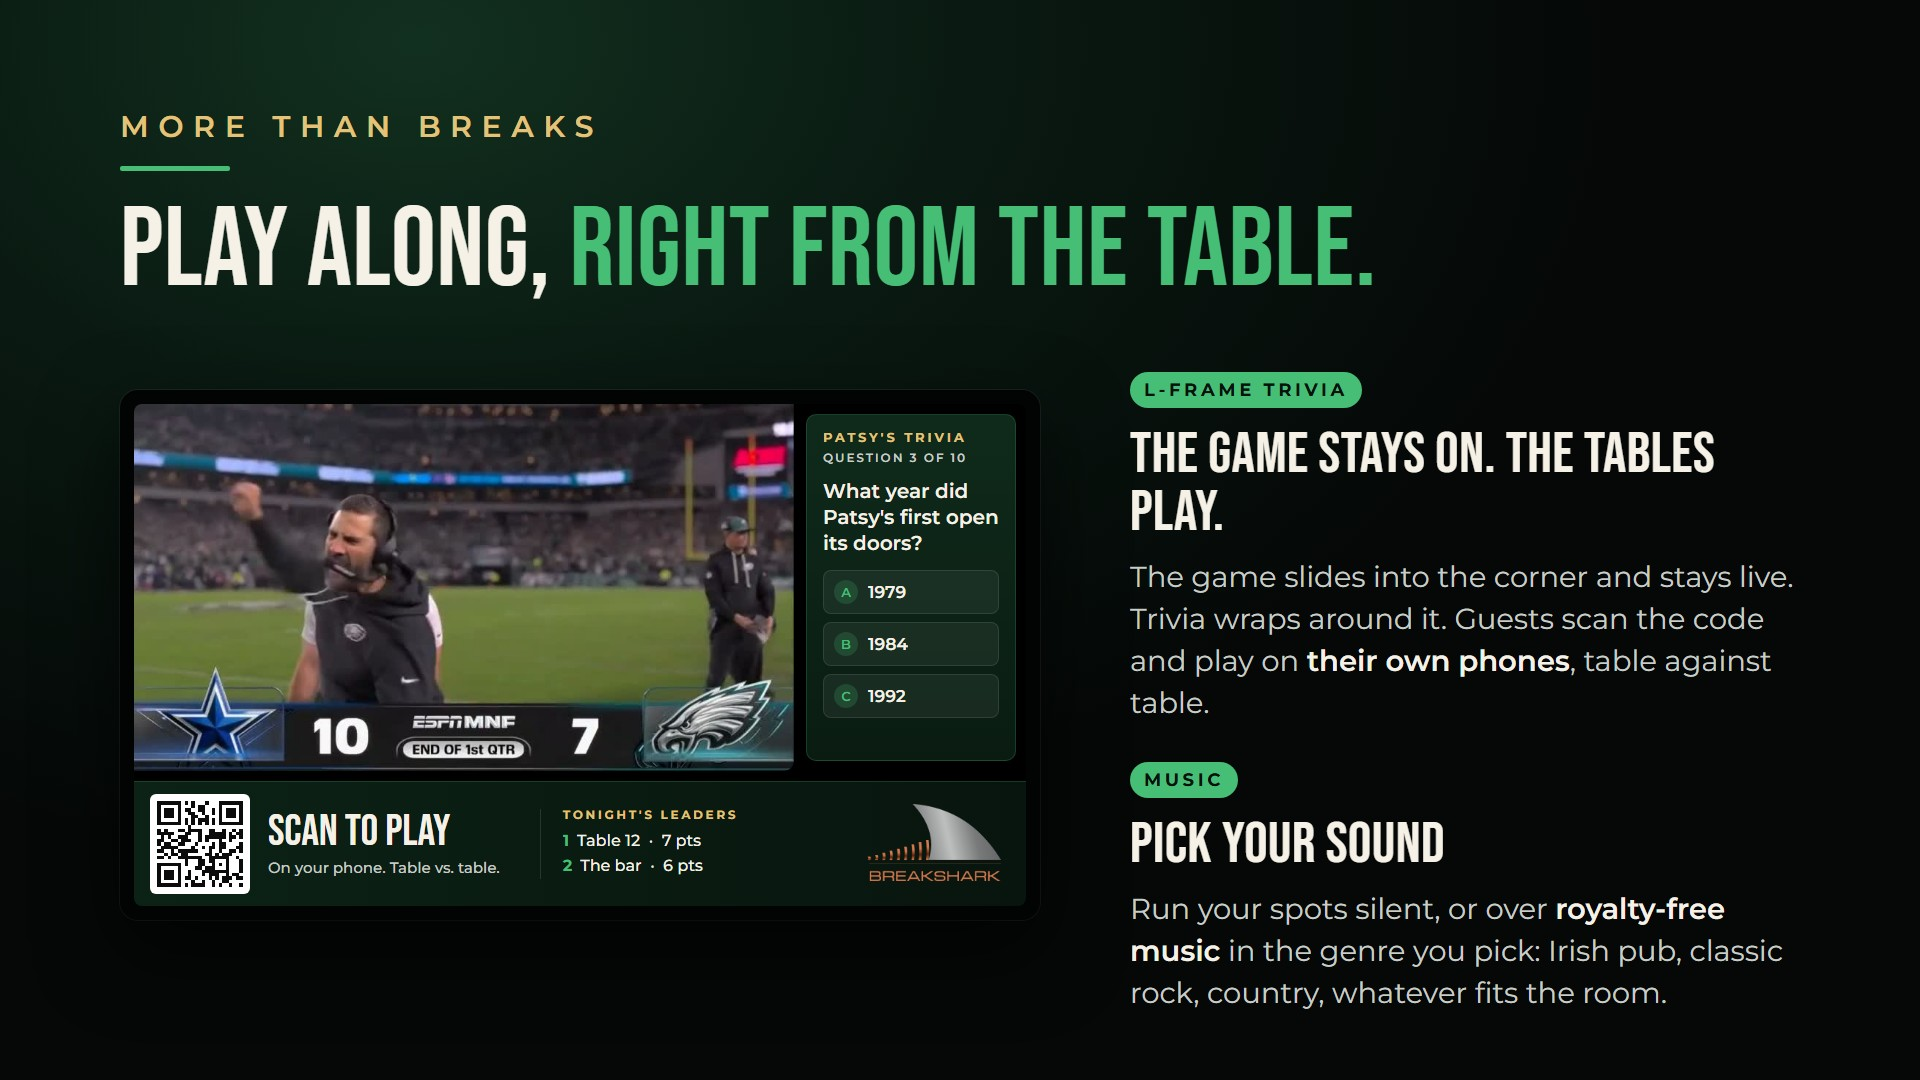
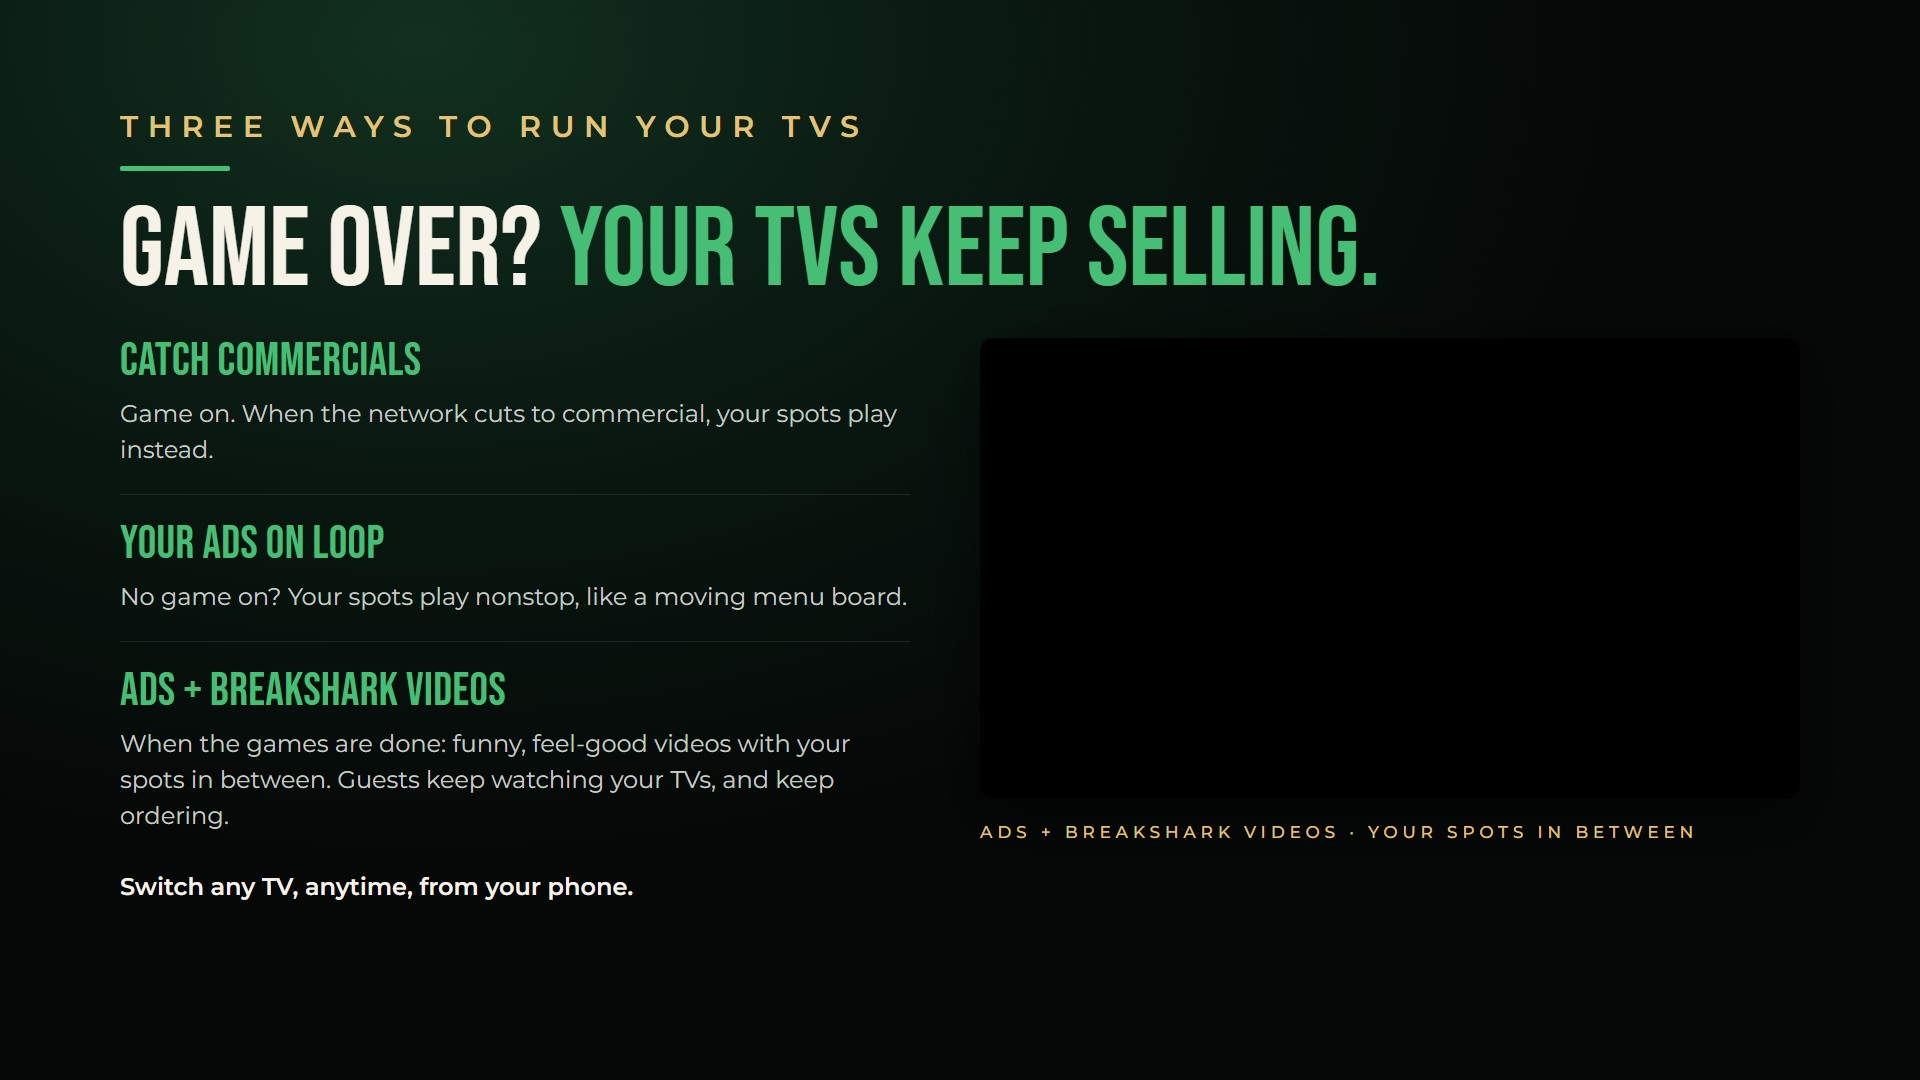
Patsy's deck: slides 12-13 rebuilt to match El Viejon: three TV modes + ads/BreakShark video, real trivia frame around a Patsy's spot
Claude-Session: https://claude.ai/code/session_01LC3WW37KTGUweEZXA6pEhV

diff --git a/patsys-v4/index.html b/patsys-v4/index.html
@@ -37,7 +37,7 @@ html,body{margin:0;height:100%;background:var(--bg);color:var(--ink);font-family
 <div id="hint">Tap the right side or swipe to go forward</div>
 <div id="load"><div>Loading the deck…</div><div class="b"><i id="lp"></i></div><div id="lt" style="opacity:.6;font-size:13px"></div></div>
 <script>
-const SLIDES = [{"img": "s/p-01.jpg?v=10", "v": [{"src": "https://media.breakshark.com/patsys-v4/v/room.mp4?v=10", "x": 0, "y": 0, "w": 1920, "h": 1080, "r": "0px", "sound": false}], "ov": "s/ov-01.png?v=10"}, {"img": "s/p-02.jpg?v=10", "v": [{"src": "https://media.breakshark.com/patsys-v4/v/s01.mp4?v=10", "x": 1080, "y": 300, "w": 720, "h": 405, "r": "14px", "sound": false}]}, {"img": "s/p-03.jpg?v=10", "v": [{"src": "https://media.breakshark.com/patsys-v4/v/how.mp4?v=10", "x": 900, "y": 250, "w": 900, "h": 576, "r": "14px", "sound": false}]}, {"img": "s/p-04.jpg?v=10", "v": [{"src": "https://media.breakshark.com/patsys-v4/v/sbx.mp4?v=10", "x": 0, "y": 0, "w": 1920, "h": 1080, "r": "14px", "sound": false}], "ov": "s/ov-04.png?v=10"}, {"img": "s/p-05.jpg?v=10", "v": []}, {"img": "s/p-06.jpg?v=10", "v": []}, {"img": "s/p-07.jpg?v=10", "v": [{"src": "https://media.breakshark.com/patsys-v4/v/s02.mp4?v=10", "x": 120, "y": 230, "w": 820, "h": 461, "r": "14px", "sound": false}, {"src": "https://media.breakshark.com/patsys-v4/v/s03.mp4?v=10", "x": 980, "y": 230, "w": 820, "h": 461, "r": "14px", "sound": false}, {"src": "https://media.breakshark.com/patsys-v4/v/s04.mp4?v=10", "x": 120, "y": 720, "w": 500, "h": 281, "r": "14px", "sound": false}, {"src": "https://media.breakshark.com/patsys-v4/v/s07.mp4?v=10", "x": 650, "y": 720, "w": 500, "h": 281, "r": "14px", "sound": false}]}, {"img": "s/p-08.jpg?v=10", "v": [{"src": "https://media.breakshark.com/patsys-v4/v/s08.mp4?v=10", "x": 120, "y": 230, "w": 820, "h": 461, "r": "14px", "sound": false}, {"src": "https://media.breakshark.com/patsys-v4/v/s09.mp4?v=10", "x": 980, "y": 230, "w": 820, "h": 461, "r": "14px", "sound": false}, {"src": "https://media.breakshark.com/patsys-v4/v/s05.mp4?v=10", "x": 120, "y": 720, "w": 500, "h": 281, "r": "14px", "sound": false}, {"src": "https://media.breakshark.com/patsys-v4/v/s10.mp4?v=10", "x": 650, "y": 720, "w": 500, "h": 281, "r": "14px", "sound": false}]}, {"img": "s/p-09.jpg?v=10", "v": [{"src": "https://media.breakshark.com/patsys-v4/v/s19.mp4?v=10", "x": 120, "y": 230, "w": 820, "h": 461, "r": "14px", "sound": false}, {"src": "https://media.breakshark.com/patsys-v4/v/s18.mp4?v=10", "x": 980, "y": 230, "w": 820, "h": 461, "r": "14px", "sound": false}, {"src": "https://media.breakshark.com/patsys-v4/v/s12.mp4?v=10", "x": 120, "y": 720, "w": 540, "h": 304, "r": "14px", "sound": false}, {"src": "https://media.breakshark.com/patsys-v4/v/s06.mp4?v=10", "x": 690, "y": 720, "w": 540, "h": 304, "r": "14px", "sound": false}, {"src": "https://media.breakshark.com/patsys-v4/v/s11.mp4?v=10", "x": 1260, "y": 720, "w": 540, "h": 304, "r": "14px", "sound": false}]}, {"img": "s/p-10.jpg?v=10", "v": [{"src": "https://media.breakshark.com/patsys-v4/v/s13.mp4?v=10", "x": 860, "y": 150, "w": 460, "h": 259, "r": "14px", "sound": false}, {"src": "https://media.breakshark.com/patsys-v4/v/s14.mp4?v=10", "x": 1350, "y": 150, "w": 460, "h": 259, "r": "14px", "sound": false}, {"src": "https://media.breakshark.com/patsys-v4/v/s15.mp4?v=10", "x": 860, "y": 440, "w": 460, "h": 259, "r": "14px", "sound": false}, {"src": "https://media.breakshark.com/patsys-v4/v/s16.mp4?v=10", "x": 1350, "y": 440, "w": 460, "h": 259, "r": "14px", "sound": false}]}, {"img": "s/p-11.jpg?v=10", "v": [{"src": "https://media.breakshark.com/patsys-v4/v/s17b.mp4?v=10", "x": 120, "y": 250, "w": 960, "h": 540, "r": "14px", "sound": false}]}, {"img": "s/x-01.jpg?v=11", "v": []}, {"img": "s/x-02.jpg?v=11", "v": []}, {"img": "s/p-12.jpg?v=10", "v": []}, {"img": "s/p-13.jpg?v=10", "v": []}, {"img": "s/p-14.jpg?v=10", "v": []}, {"img": "s/p-15.jpg?v=10", "v": [{"src": "https://media.breakshark.com/patsys-v4/v/reel.mp4?v=10", "x": 760, "y": 200, "w": 1040, "h": 585, "r": "14px", "sound": true}]}, {"img": "s/p-16.webp?v=10", "v": [], "frame": {"src": "https://drive.google.com/file/d/1PkXY2QgrQUECcYuEOcghGNN9aMUPo6uv/preview", "x": 760, "y": 200, "w": 1040, "h": 585}}];
+const SLIDES = [{"img": "s/p-01.jpg?v=10", "v": [{"src": "https://media.breakshark.com/patsys-v4/v/room.mp4?v=10", "x": 0, "y": 0, "w": 1920, "h": 1080, "r": "0px", "sound": false}], "ov": "s/ov-01.png?v=10"}, {"img": "s/p-02.jpg?v=10", "v": [{"src": "https://media.breakshark.com/patsys-v4/v/s01.mp4?v=10", "x": 1080, "y": 300, "w": 720, "h": 405, "r": "14px", "sound": false}]}, {"img": "s/p-03.jpg?v=10", "v": [{"src": "https://media.breakshark.com/patsys-v4/v/how.mp4?v=10", "x": 900, "y": 250, "w": 900, "h": 576, "r": "14px", "sound": false}]}, {"img": "s/p-04.jpg?v=10", "v": [{"src": "https://media.breakshark.com/patsys-v4/v/sbx.mp4?v=10", "x": 0, "y": 0, "w": 1920, "h": 1080, "r": "14px", "sound": false}], "ov": "s/ov-04.png?v=10"}, {"img": "s/p-05.jpg?v=10", "v": []}, {"img": "s/p-06.jpg?v=10", "v": []}, {"img": "s/p-07.jpg?v=10", "v": [{"src": "https://media.breakshark.com/patsys-v4/v/s02.mp4?v=10", "x": 120, "y": 230, "w": 820, "h": 461, "r": "14px", "sound": false}, {"src": "https://media.breakshark.com/patsys-v4/v/s03.mp4?v=10", "x": 980, "y": 230, "w": 820, "h": 461, "r": "14px", "sound": false}, {"src": "https://media.breakshark.com/patsys-v4/v/s04.mp4?v=10", "x": 120, "y": 720, "w": 500, "h": 281, "r": "14px", "sound": false}, {"src": "https://media.breakshark.com/patsys-v4/v/s07.mp4?v=10", "x": 650, "y": 720, "w": 500, "h": 281, "r": "14px", "sound": false}]}, {"img": "s/p-08.jpg?v=10", "v": [{"src": "https://media.breakshark.com/patsys-v4/v/s08.mp4?v=10", "x": 120, "y": 230, "w": 820, "h": 461, "r": "14px", "sound": false}, {"src": "https://media.breakshark.com/patsys-v4/v/s09.mp4?v=10", "x": 980, "y": 230, "w": 820, "h": 461, "r": "14px", "sound": false}, {"src": "https://media.breakshark.com/patsys-v4/v/s05.mp4?v=10", "x": 120, "y": 720, "w": 500, "h": 281, "r": "14px", "sound": false}, {"src": "https://media.breakshark.com/patsys-v4/v/s10.mp4?v=10", "x": 650, "y": 720, "w": 500, "h": 281, "r": "14px", "sound": false}]}, {"img": "s/p-09.jpg?v=10", "v": [{"src": "https://media.breakshark.com/patsys-v4/v/s19.mp4?v=10", "x": 120, "y": 230, "w": 820, "h": 461, "r": "14px", "sound": false}, {"src": "https://media.breakshark.com/patsys-v4/v/s18.mp4?v=10", "x": 980, "y": 230, "w": 820, "h": 461, "r": "14px", "sound": false}, {"src": "https://media.breakshark.com/patsys-v4/v/s12.mp4?v=10", "x": 120, "y": 720, "w": 540, "h": 304, "r": "14px", "sound": false}, {"src": "https://media.breakshark.com/patsys-v4/v/s06.mp4?v=10", "x": 690, "y": 720, "w": 540, "h": 304, "r": "14px", "sound": false}, {"src": "https://media.breakshark.com/patsys-v4/v/s11.mp4?v=10", "x": 1260, "y": 720, "w": 540, "h": 304, "r": "14px", "sound": false}]}, {"img": "s/p-10.jpg?v=10", "v": [{"src": "https://media.breakshark.com/patsys-v4/v/s13.mp4?v=10", "x": 860, "y": 150, "w": 460, "h": 259, "r": "14px", "sound": false}, {"src": "https://media.breakshark.com/patsys-v4/v/s14.mp4?v=10", "x": 1350, "y": 150, "w": 460, "h": 259, "r": "14px", "sound": false}, {"src": "https://media.breakshark.com/patsys-v4/v/s15.mp4?v=10", "x": 860, "y": 440, "w": 460, "h": 259, "r": "14px", "sound": false}, {"src": "https://media.breakshark.com/patsys-v4/v/s16.mp4?v=10", "x": 1350, "y": 440, "w": 460, "h": 259, "r": "14px", "sound": false}]}, {"img": "s/p-11.jpg?v=10", "v": [{"src": "https://media.breakshark.com/patsys-v4/v/s17b.mp4?v=10", "x": 120, "y": 250, "w": 960, "h": 540, "r": "14px", "sound": false}]}, {"img": "s/x-01.jpg?v=12", "v": [{"src": "https://media.breakshark.com/patsys-v4/v/after-hours.mp4?v=1", "x": 980, "y": 338, "w": 820, "h": 461, "r": "14px", "sound": false}]}, {"img": "s/x-02.jpg?v=12", "v": []}, {"img": "s/p-12.jpg?v=10", "v": []}, {"img": "s/p-13.jpg?v=10", "v": []}, {"img": "s/p-14.jpg?v=10", "v": []}, {"img": "s/p-15.jpg?v=10", "v": [{"src": "https://media.breakshark.com/patsys-v4/v/reel.mp4?v=10", "x": 760, "y": 200, "w": 1040, "h": 585, "r": "14px", "sound": true}]}, {"img": "s/p-16.webp?v=10", "v": [], "frame": {"src": "https://drive.google.com/file/d/1PkXY2QgrQUECcYuEOcghGNN9aMUPo6uv/preview", "x": 760, "y": 200, "w": 1040, "h": 585}}];
 const stage = document.getElementById('stage'), dots = document.getElementById('dots');
 let cur = 0;
 SLIDES.forEach((s, i) => {
@@ -101,7 +101,7 @@ setInterval(kick, 1500);
 addEventListener('mousemove', wake); addEventListener('touchstart', wake, { passive: true });
 setTimeout(() => document.getElementById('hint').style.opacity = 0, 4000);
 // first-load: fetch everything so it plays smoothly and keeps working offline
-const ASSETS = ["./", "index.html", "manifest.json", "icon.png", "logo.png", "s/p-01.jpg?v=10", "s/p-02.jpg?v=10", "s/p-03.jpg?v=10", "s/p-04.jpg?v=10", "s/p-05.jpg?v=10", "s/p-06.jpg?v=10", "s/p-07.jpg?v=10", "s/p-08.jpg?v=10", "s/p-09.jpg?v=10", "s/p-10.jpg?v=10", "s/p-11.jpg?v=10", "s/p-12.jpg?v=10", "s/p-13.jpg?v=10", "s/p-14.jpg?v=10", "s/p-15.jpg?v=10", "s/p-16.webp?v=10", "s/x-01.jpg?v=11", "s/x-02.jpg?v=11", "s/ov-01.png?v=10", "s/ov-04.png?v=10", "https://media.breakshark.com/patsys-v4/v/how.mp4?v=10", "https://media.breakshark.com/patsys-v4/v/reel.mp4?v=10", "https://media.breakshark.com/patsys-v4/v/room.mp4?v=10", "https://media.breakshark.com/patsys-v4/v/s01.mp4?v=10", "https://media.breakshark.com/patsys-v4/v/s02.mp4?v=10", "https://media.breakshark.com/patsys-v4/v/s03.mp4?v=10", "https://media.breakshark.com/patsys-v4/v/s04.mp4?v=10", "https://media.breakshark.com/patsys-v4/v/s05.mp4?v=10", "https://media.breakshark.com/patsys-v4/v/s06.mp4?v=10", "https://media.breakshark.com/patsys-v4/v/s07.mp4?v=10", "https://media.breakshark.com/patsys-v4/v/s08.mp4?v=10", "https://media.breakshark.com/patsys-v4/v/s09.mp4?v=10", "https://media.breakshark.com/patsys-v4/v/s10.mp4?v=10", "https://media.breakshark.com/patsys-v4/v/s11.mp4?v=10", "https://media.breakshark.com/patsys-v4/v/s12.mp4?v=10", "https://media.breakshark.com/patsys-v4/v/s13.mp4?v=10", "https://media.breakshark.com/patsys-v4/v/s14.mp4?v=10", "https://media.breakshark.com/patsys-v4/v/s15.mp4?v=10", "https://media.breakshark.com/patsys-v4/v/s16.mp4?v=10", "https://media.breakshark.com/patsys-v4/v/s17b.mp4?v=10", "https://media.breakshark.com/patsys-v4/v/s18.mp4?v=10", "https://media.breakshark.com/patsys-v4/v/s19.mp4?v=10", "https://media.breakshark.com/patsys-v4/v/sbx.mp4?v=10", "v/reel.jpg?v=10", "sw.js"];
+const ASSETS = ["./", "index.html", "manifest.json", "icon.png", "logo.png", "s/p-01.jpg?v=10", "s/p-02.jpg?v=10", "s/p-03.jpg?v=10", "s/p-04.jpg?v=10", "s/p-05.jpg?v=10", "s/p-06.jpg?v=10", "s/p-07.jpg?v=10", "s/p-08.jpg?v=10", "s/p-09.jpg?v=10", "s/p-10.jpg?v=10", "s/p-11.jpg?v=10", "s/p-12.jpg?v=10", "s/p-13.jpg?v=10", "s/p-14.jpg?v=10", "s/p-15.jpg?v=10", "s/p-16.webp?v=10", "s/ov-01.png?v=10", "s/ov-04.png?v=10", "https://media.breakshark.com/patsys-v4/v/how.mp4?v=10", "https://media.breakshark.com/patsys-v4/v/reel.mp4?v=10", "https://media.breakshark.com/patsys-v4/v/room.mp4?v=10", "https://media.breakshark.com/patsys-v4/v/s01.mp4?v=10", "https://media.breakshark.com/patsys-v4/v/s02.mp4?v=10", "https://media.breakshark.com/patsys-v4/v/s03.mp4?v=10", "https://media.breakshark.com/patsys-v4/v/s04.mp4?v=10", "https://media.breakshark.com/patsys-v4/v/s05.mp4?v=10", "https://media.breakshark.com/patsys-v4/v/s06.mp4?v=10", "https://media.breakshark.com/patsys-v4/v/s07.mp4?v=10", "https://media.breakshark.com/patsys-v4/v/s08.mp4?v=10", "https://media.breakshark.com/patsys-v4/v/s09.mp4?v=10", "https://media.breakshark.com/patsys-v4/v/s10.mp4?v=10", "https://media.breakshark.com/patsys-v4/v/s11.mp4?v=10", "https://media.breakshark.com/patsys-v4/v/s12.mp4?v=10", "https://media.breakshark.com/patsys-v4/v/s13.mp4?v=10", "https://media.breakshark.com/patsys-v4/v/s14.mp4?v=10", "https://media.breakshark.com/patsys-v4/v/s15.mp4?v=10", "https://media.breakshark.com/patsys-v4/v/s16.mp4?v=10", "https://media.breakshark.com/patsys-v4/v/s17b.mp4?v=10", "https://media.breakshark.com/patsys-v4/v/s18.mp4?v=10", "https://media.breakshark.com/patsys-v4/v/s19.mp4?v=10", "https://media.breakshark.com/patsys-v4/v/sbx.mp4?v=10", "v/reel.jpg?v=10", "s/x-01.jpg?v=12", "s/x-02.jpg?v=12", "https://media.breakshark.com/patsys-v4/v/after-hours.mp4?v=1", "sw.js"];
 (async () => {
   if ('serviceWorker' in navigator) { try { await navigator.serviceWorker.register('sw.js'); } catch (e) {} }
   let done = 0; const lp = document.getElementById('lp'), lt = document.getElementById('lt');
